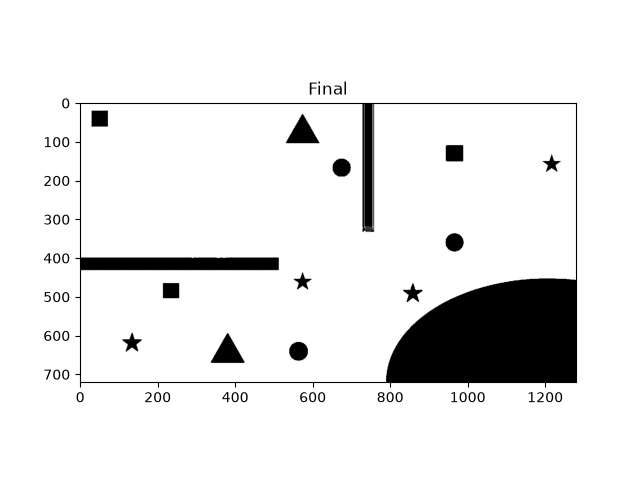
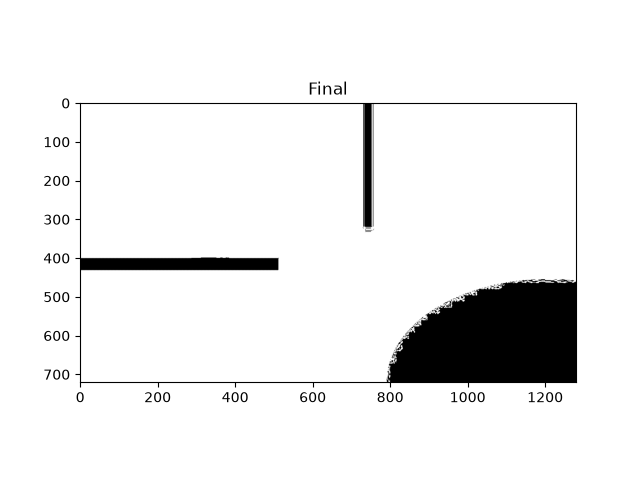
casuality detection

diff --git a/src/source.py b/src/source.py
@@ -35,3 +35,103 @@ plt.title("Final")
 plt.axis('on')
 plt.savefig('outputs/mask_output.png')
 plt.show()
+
+#now casuality detection
+lower_red1=np.array([0,100,100])
+upper_red1=np.array([10,255,255])
+mask_red1=cv2.inRange(hsv,lower_red1,upper_red1)
+
+lower_red2=np.array([170,100,100])
+upper_red2=np.array([180,255,255])
+mask_red2=cv2.inRange(hsv,lower_red2,upper_red2)
+
+red_mask=cv2.bitwise_or(mask_red1,mask_red2)
+
+lower_yellow=np.array([20,100,100])
+upper_yellow=np.array([34,250,255])
+yellow_mask=cv2.inRange(hsv,lower_yellow,upper_yellow)
+
+lower_white=np.array([0,0,200])
+upper_white=np.array([180,40,255])
+white_mask=cv2.inRange(hsv,lower_white,upper_white)
+
+
+contours,hierarchy=cv2.findContours(red_mask,cv2.RETR_EXTERNAL,cv2.CHAIN_APPROX_SIMPLE)
+
+for cnt in contours:
+    area=cv2.contourArea(cnt)
+    if area<100:
+        continue
+    M=cv2.moments(cnt)
+    if M["m00"]!=0:
+        cx=int(M["m10"]/M["m00"])
+        cy=int(M["m01"]/M["m00"])
+    peri=cv2.arcLength(cnt,True)
+    approx=cv2.approxPolyDP(cnt,0.02*peri,True)
+    corners=len(approx)
+    hull=cv2.convexHull(cnt)
+    hull_area=cv2.contourArea(hull)
+    solidity=area/hull_area
+    
+    if corners==4:
+        shape="square"
+    elif solidity<0.85:
+        shape="star"
+    else:
+        shape="circle"
+    
+    print("red",shape,"-",(cx,cy),"| corners:",corners,"| solidity:",round(solidity,2))
+
+contours,hierarchy=cv2.findContours(yellow_mask,cv2.RETR_EXTERNAL,cv2.CHAIN_APPROX_SIMPLE)
+
+for cnt in contours:
+    area=cv2.contourArea(cnt)
+    if area<100:
+        continue
+    M=cv2.moments(cnt)
+    if M["m00"]!=0:
+        cx=int(M["m10"]/M["m00"])
+        cy=int(M["m01"]/M["m00"])
+    peri=cv2.arcLength(cnt,True)
+    approx=cv2.approxPolyDP(cnt,0.02*peri,True)
+    corners=len(approx)
+    hull=cv2.convexHull(cnt)
+    hull_area=cv2.contourArea(hull)
+    solidity=area/hull_area
+    
+    if corners==4:
+        shape="square"
+    elif solidity<0.85:
+        shape="star"
+    else:
+        shape="circle"
+    
+    print("yellow",shape,"-",(cx,cy),"| corners:",corners,"| solidity:",round(solidity,2))
+
+contours,hierarchy=cv2.findContours(white_mask,cv2.RETR_EXTERNAL,cv2.CHAIN_APPROX_SIMPLE)
+
+for cnt in contours:
+    area=cv2.contourArea(cnt)
+    if area<100:
+        continue
+    M=cv2.moments(cnt)
+    if M["m00"]!=0:
+        cx=int(M["m10"]/M["m00"])
+        cy=int(M["m01"]/M["m00"])
+    peri=cv2.arcLength(cnt,True)
+    approx=cv2.approxPolyDP(cnt,0.02*peri,True)
+    corners=len(approx)
+    hull=cv2.convexHull(cnt)
+    hull_area=cv2.contourArea(hull)
+    solidity=area/hull_area
+    
+    if corners==4:
+        shape="square"
+    elif solidity<0.85:
+        shape="star"
+    else:
+        shape="circle"
+    
+    print("white",shape,"-",(cx,cy),"| corners:",corners,"| solidity:",round(solidity,2))
+
+
